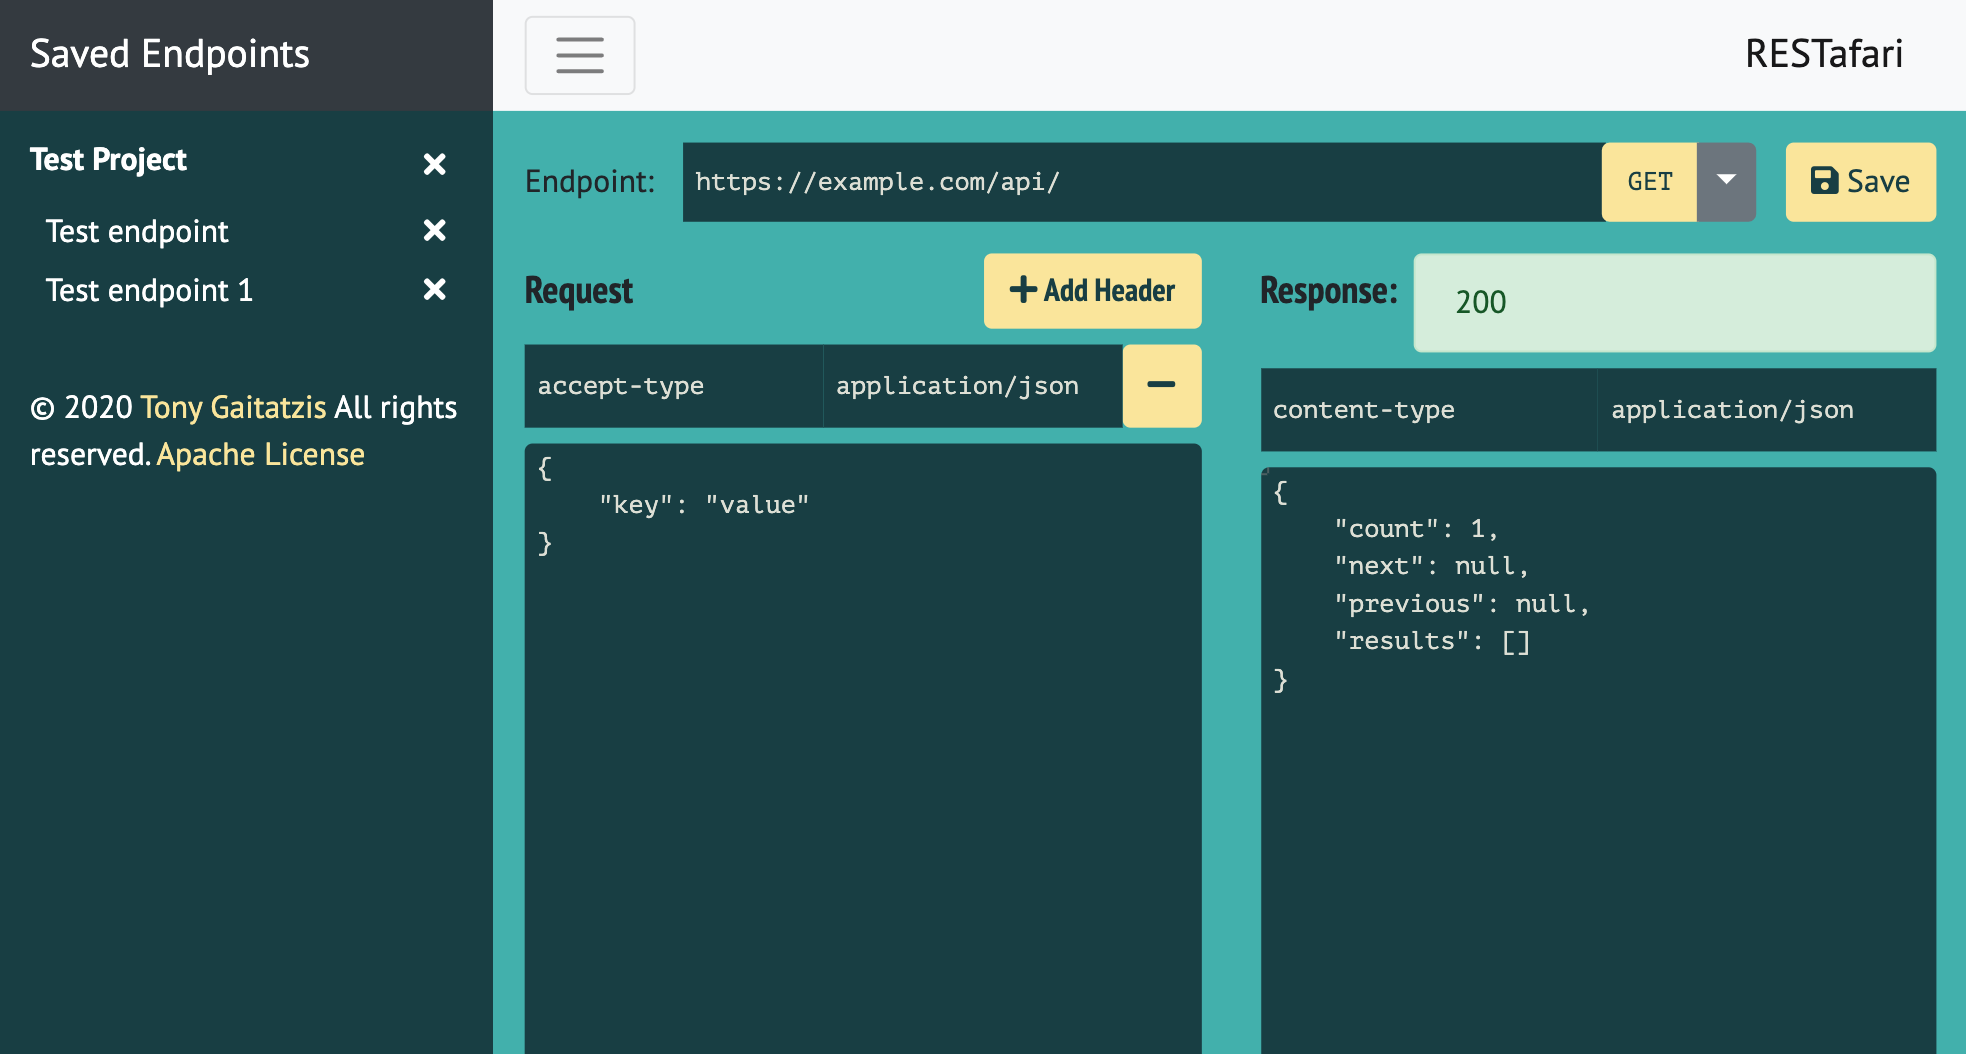
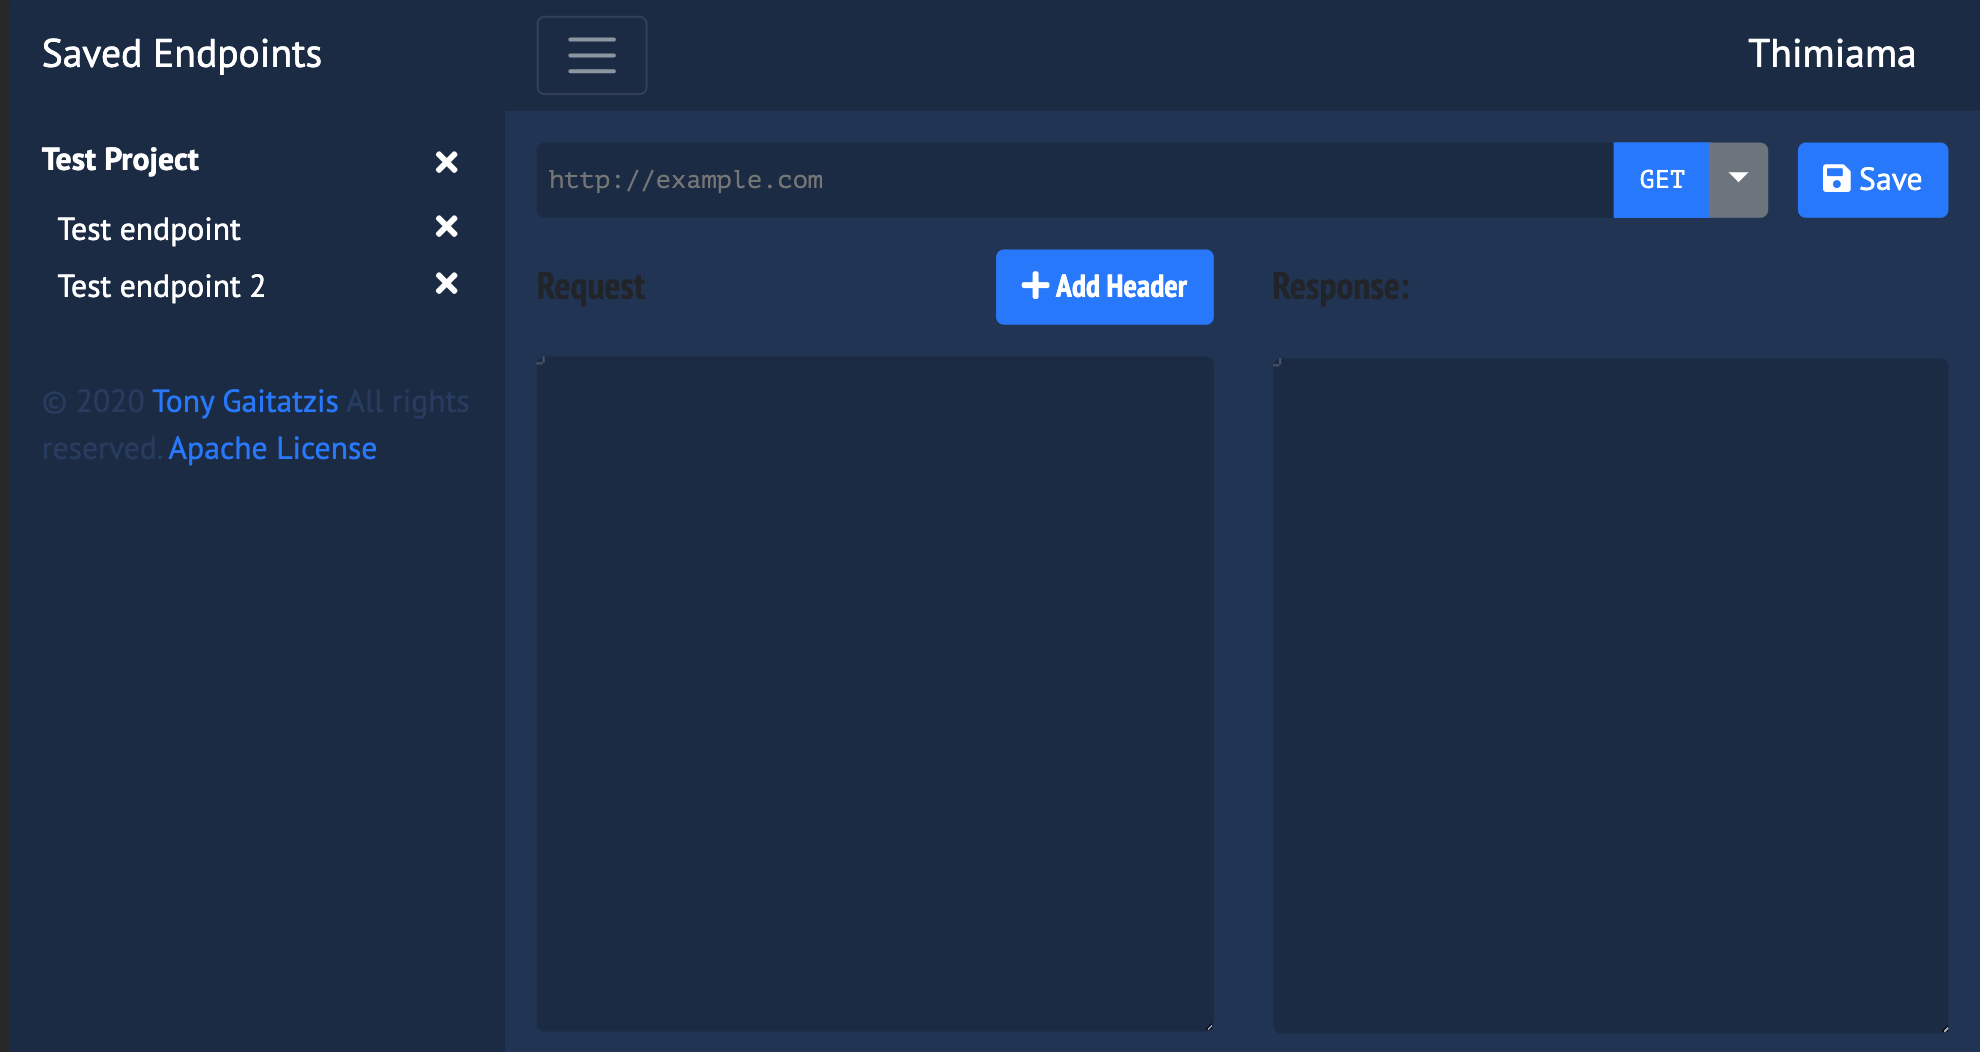
updating color scheme

diff --git a/static/scripts/components/MainTemplate.vue.js b/static/scripts/components/MainTemplate.vue.js
@@ -359,7 +359,7 @@ export default {
 										<label for="url">{{ $t('endpoint') }}</label>
 									</div-->
 									<url-input
-										classNames="flex-grow-1"
+										classNames="flex-grow-1 rounded-left"
 										type="url"
 										placeholder="http://example.com"
 										@change="urlChanged($event)"
@@ -369,7 +369,7 @@ export default {
 									></url-input>
 		        					<div class="input-group-prepend">
 										<dropdown-select
-											classNames="input-group-append"
+											classNames="input-group-append rounded-0"
 											:options="methodOptions"
 											:required="true"
 											@click="submitForm($event)"

diff --git a/static/styles/screen.css b/static/styles/screen.css
@@ -153,3 +153,23 @@ ul.project--endpoints {
 	padding-bottom: 0;
 	border: 0;
 }
+.dropdown-menu {
+	background-color: var(--primary-light);
+	color: var(--neutral-white);
+}
+
+.alert-success {
+	background-color: var(--primary-dark);
+	color: var(--neutral-white);
+	border: 0px none;
+}
+.alert-info {
+	background-color: var(--primary-dark);
+	color: var(--neutral-white);
+	border: 0px none;
+}
+.alert-info {
+	background-color: var(--neutral-medium);
+	color: var(--neutral-white);
+	border: 0px none;
+}

diff --git a/static/scripts/components/DropdownSelect.vue.js b/static/scripts/components/DropdownSelect.vue.js
@@ -92,7 +92,7 @@ export default {
 			></div>
 			<div class="btn-group">
 				<button
-					class="btn btn-primary code"
+					class="btn btn-primary code rounded-0"
 					type="button"
 					@click="click($event)"
 				>
